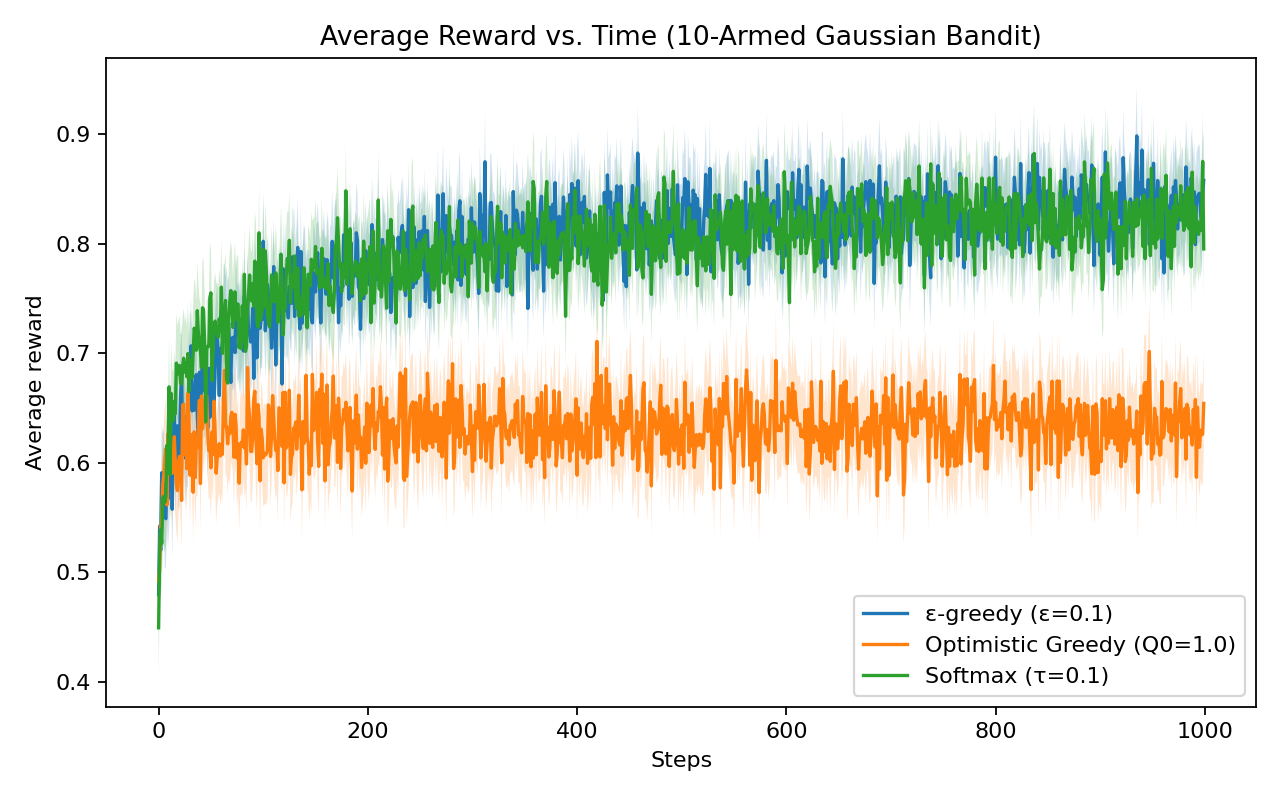
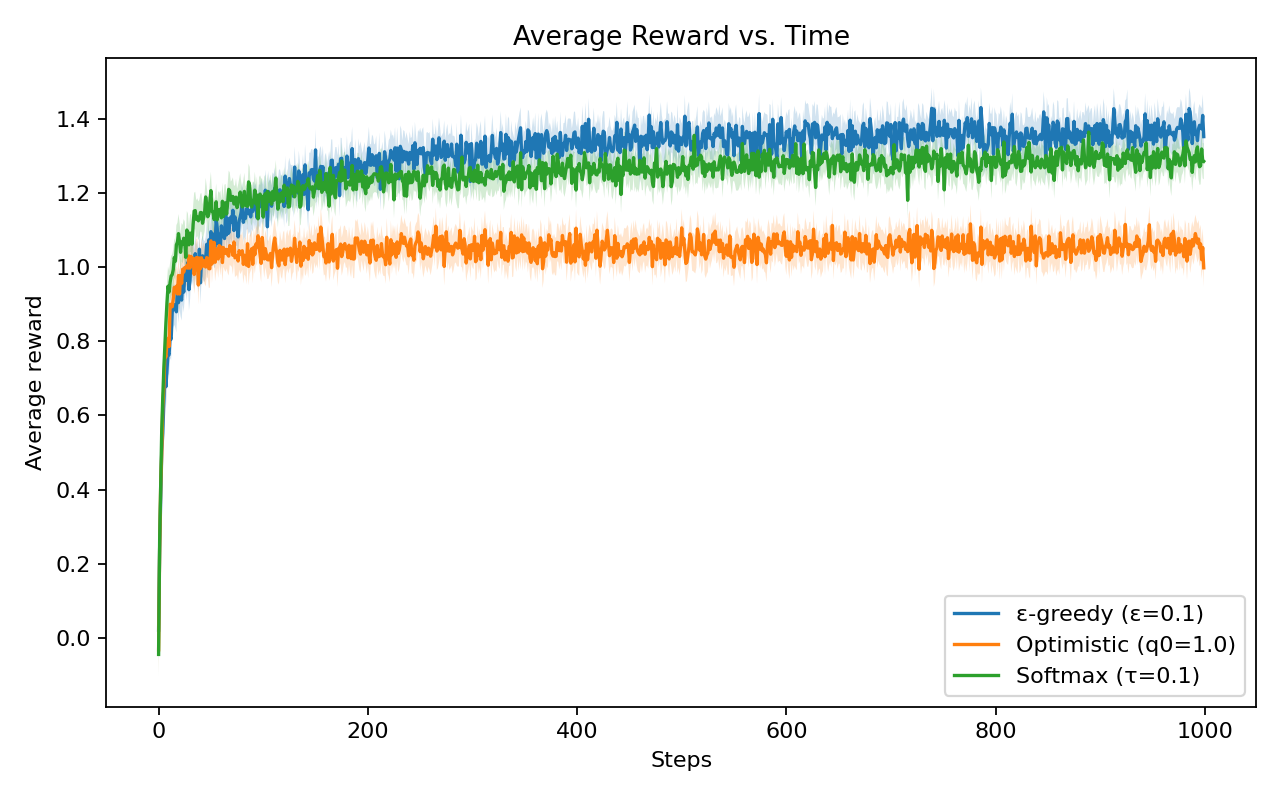
finished proj

diff --git a/bandits.py b/bandits.py
@@ -11,6 +11,7 @@ Produces plots with 95% CIs for:
   - cumulative regret
 """
 
+import os
 import numpy as np
 import matplotlib.pyplot as plt
 import random
@@ -66,7 +67,7 @@ class EpsilonGreedy(BaseAgent):
             return np.random.choice(max_indxs)
 
 class OptimisticGreedy(BaseAgent):
-    def __init__(self, K, q0=1.0):
+    def __init__(self, K, q0=3.0):
         super().__init__(K)
         self.Q[:] = q0
 
@@ -107,18 +108,104 @@ def run_experiment(agent_class, agent_kwargs, num_runs=2000, T=1000, K=10):
 
         cum_regret = 0
         for t in range(T):
-            # TODO: agent picks action, bandit returns reward, agent updates
-            pass
+            action = agent.select_action(t)
+            reward = bandit.step(action)
+            agent.update(action, reward)
 
-    # TODO: compute averages and CIs
-    return rewards, optimal, regret
+            rewards[run, t] = reward
+            optimal[run, t] = 1 if action == bandit.opt_action else 0
+            cum_regret += bandit.opt_mean - bandit.means[action]
+            regret[run, t] = cum_regret
 
-def plot_results(xs, results):
-    # TODO: implement matplotlib plots with CI shading
-    pass
+    def mean_ci(x, axis=0):
+        m = x.mean(axis=axis)
+        se = x.std(axis=axis, ddof=1) / np.sqrt(x.shape[axis])
+        lo = m - 1.96 * se
+        hi = m + 1.96 * se
+        return m, lo, hi
+    
+    avg_reward = mean_ci(rewards)
+    avg_optimal = mean_ci(optimal)
+    avg_regret = mean_ci(regret)
+    
+    return avg_reward, avg_optimal, avg_regret
+
+def plot_results(xs, results, outdir="plots"):
+    """
+    xs: 1D array of length T (e.g., np.arange(T))
+    results: list of dicts, one per agent, each with:
+      {
+        "label": "ε-greedy (ε=0.1)",
+        "avg_reward": (mean, lo, hi),   # each length T
+        "avg_optimal": (mean, lo, hi),  # each length T
+        "avg_regret": (mean, lo, hi),   # each length T
+      }
+    outdir: folder to save PNGs
+    """
+    os.makedirs(outdir, exist_ok=True)
+
+    def _panel(metric_key, ylabel, title, filename, clamp01=False):
+        plt.figure(figsize=(8, 5))
+        for res in results:
+            mean, lo, hi = res[metric_key]
+            if clamp01:
+                lo = np.clip(lo, 0.0, 1.0)
+                hi = np.clip(hi, 0.0, 1.0)
+            plt.plot(xs, mean, label=res["label"])
+            plt.fill_between(xs, lo, hi, alpha=0.2)
+        plt.xlabel("Steps")
+        plt.ylabel(ylabel)
+        plt.title(title)
+        plt.legend()
+        plt.tight_layout()
+        plt.savefig(os.path.join(outdir, filename), dpi=160)
+        plt.close()
+
+    _panel("avg_reward",  "Average reward",
+           "Average Reward vs. Time",          "avg_reward.png")
+
+    _panel("avg_optimal", "Probability of optimal action",
+           "Probability of Choosing the Optimal Arm", "pct_opt.png",
+           clamp01=True)
+
+    _panel("avg_regret",  "Cumulative regret",
+           "Cumulative Regret vs. Time",       "regret.png")
 
 # ------------------ Main ------------------
 if __name__ == "__main__":
     # Example: run epsilon-greedy
-    rewards, optimal, regret = run_experiment(EpsilonGreedy, {"epsilon":0.1})
+
     # TODO: plot
+    T = 1000
+    xs = np.arange(T)
+
+    results = []
+
+    # ε-greedy
+    avg_reward, avg_optimal, avg_regret = run_experiment(EpsilonGreedy, {"epsilon": 0.1}, T=T)
+    results.append({
+        "label": "ε-greedy (ε=0.1)",
+        "avg_reward": avg_reward,
+        "avg_optimal": avg_optimal,
+        "avg_regret": avg_regret,
+    })
+
+    # Optimistic greedy
+    avg_reward, avg_optimal, avg_regret = run_experiment(OptimisticGreedy, {"q0": 1.0}, T=T)
+    results.append({
+        "label": "Optimistic (q0=1.0)",
+        "avg_reward": avg_reward,
+        "avg_optimal": avg_optimal,
+        "avg_regret": avg_regret,
+    })
+
+    # Softmax
+    avg_reward, avg_optimal, avg_regret = run_experiment(SoftmaxAgent, {"tau": 0.1}, T=T)
+    results.append({
+        "label": "Softmax (τ=0.1)",
+        "avg_reward": avg_reward,
+        "avg_optimal": avg_optimal,
+        "avg_regret": avg_regret,
+    })
+
+    plot_results(xs, results, outdir="plots")
